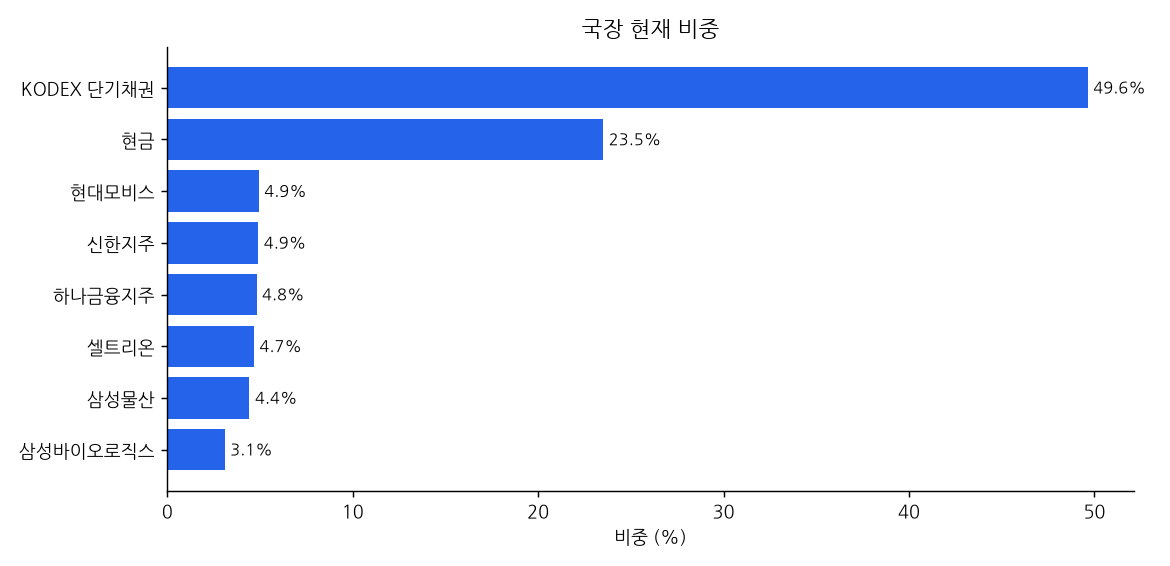
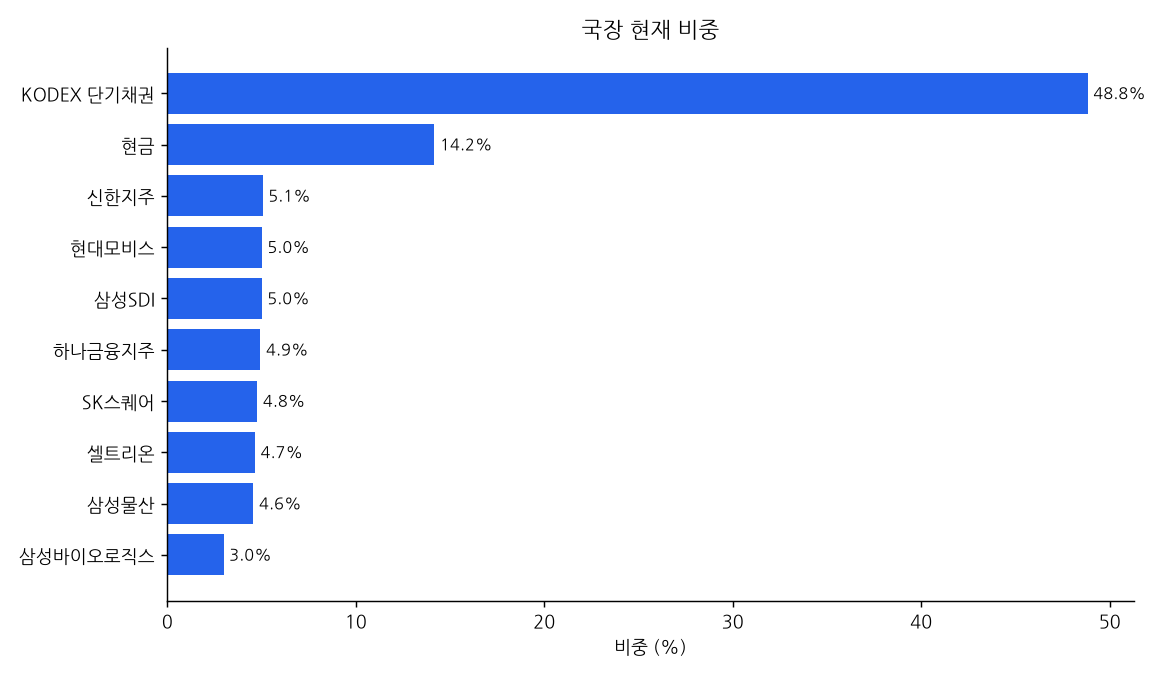
dashboard 2026-11-07 01:06

Changed region(s): [[0.0, 0.0901, 0.9846, 0.9311], [0.4923, 0.03, 0.6154, 0.0601], [0.5231, 0.9311, 0.5846, 0.9912]]

diff --git a/README.md b/README.md
@@ -1,10 +1,10 @@
 # 📈 내 자동매매 포트폴리오
 
-_마지막 갱신: 2026-11-06 11:40 (KST) · 라즈베리파이 자동 업데이트_
+_마지막 갱신: 2026-11-07 01:06 (KST) · 라즈베리파이 자동 업데이트_
 
 | 트랙 | 시작일 | 누적 수익률 | 비교 지수 | 초과 | 최근 1개월 | 국면 |
 |---|---|---|---|---|---|---|
-| 미장 | 2026-11-05 | **+0.00%** | +0.00% | +0.00% | - | - |
+| 미장 | 2026-11-05 | **+0.00%** | +0.78% | -0.78% | - | BULL |
 | 국장 | 2026-11-06 | **+0.00%** | +0.00% | +0.00% | - | BEAR |
 
 ## 미장
@@ -13,7 +13,17 @@ _마지막 갱신: 2026-11-06 11:40 (KST) · 라즈베리파이 자동 업데이
 
 | 종목 | 비중 |
 |---|---|
-| 현금 | 100.0% |
+| AAPL | 10.1% |
+| AMZN | 10.1% |
+| TSLA | 10.1% |
+| META | 10.0% |
+| GOOGL | 9.8% |
+| AMD | 9.7% |
+| MSFT | 9.7% |
+| NVDA | 9.7% |
+| LLY | 9.6% |
+| AVGO | 9.6% |
+| 현금 | 1.6% |
 
 ![미장 비중](charts/us_weights.png)
 
@@ -23,14 +33,16 @@ _마지막 갱신: 2026-11-06 11:40 (KST) · 라즈베리파이 자동 업데이
 
 | 종목 | 비중 |
 |---|---|
-| KODEX 단기채권 | 49.6% |
-| 현금 | 23.5% |
-| 현대모비스 | 4.9% |
-| 신한지주 | 4.9% |
-| 하나금융지주 | 4.8% |
+| KODEX 단기채권 | 48.8% |
+| 현금 | 14.2% |
+| 신한지주 | 5.1% |
+| 현대모비스 | 5.0% |
+| 삼성SDI | 5.0% |
+| 하나금융지주 | 4.9% |
+| SK스퀘어 | 4.8% |
 | 셀트리온 | 4.7% |
-| 삼성물산 | 4.4% |
-| 삼성바이오로직스 | 3.1% |
+| 삼성물산 | 4.6% |
+| 삼성바이오로직스 | 3.0% |
 
 ![국장 비중](charts/kr_weights.png)
 
